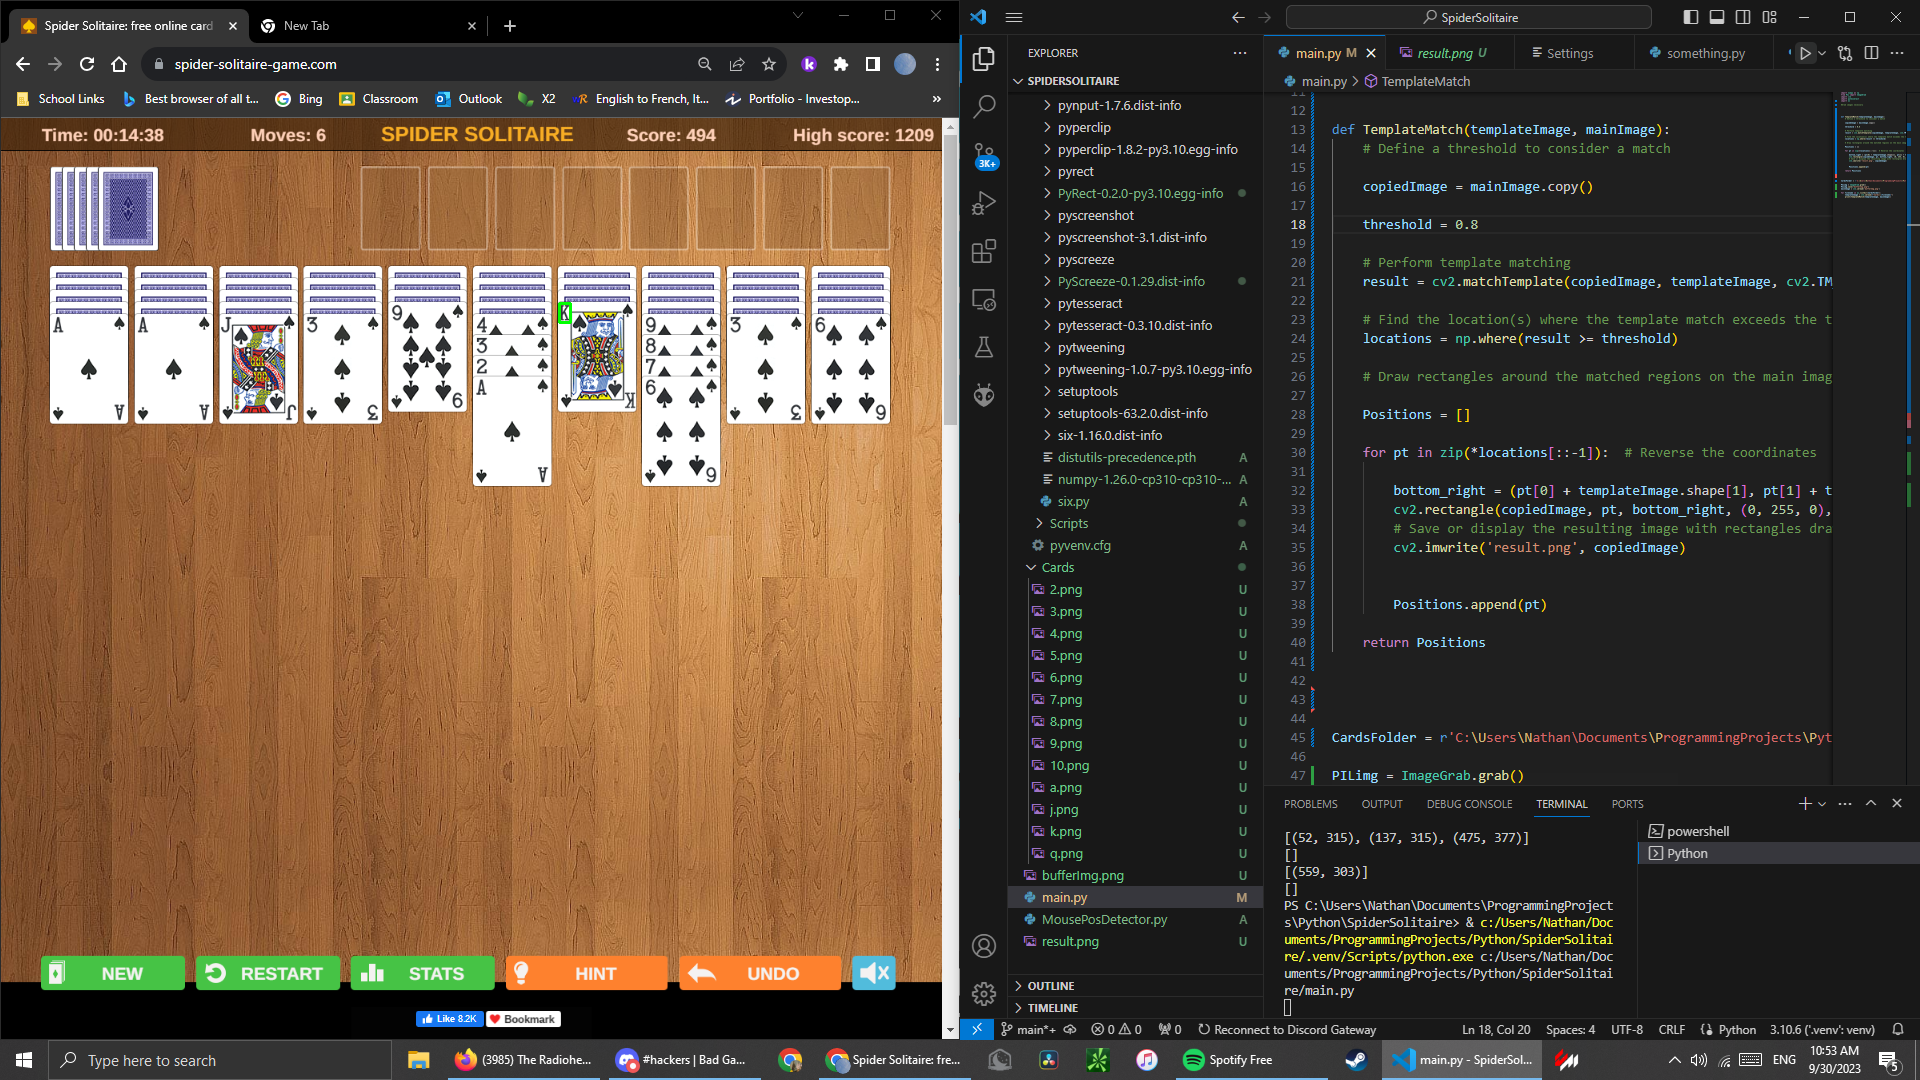
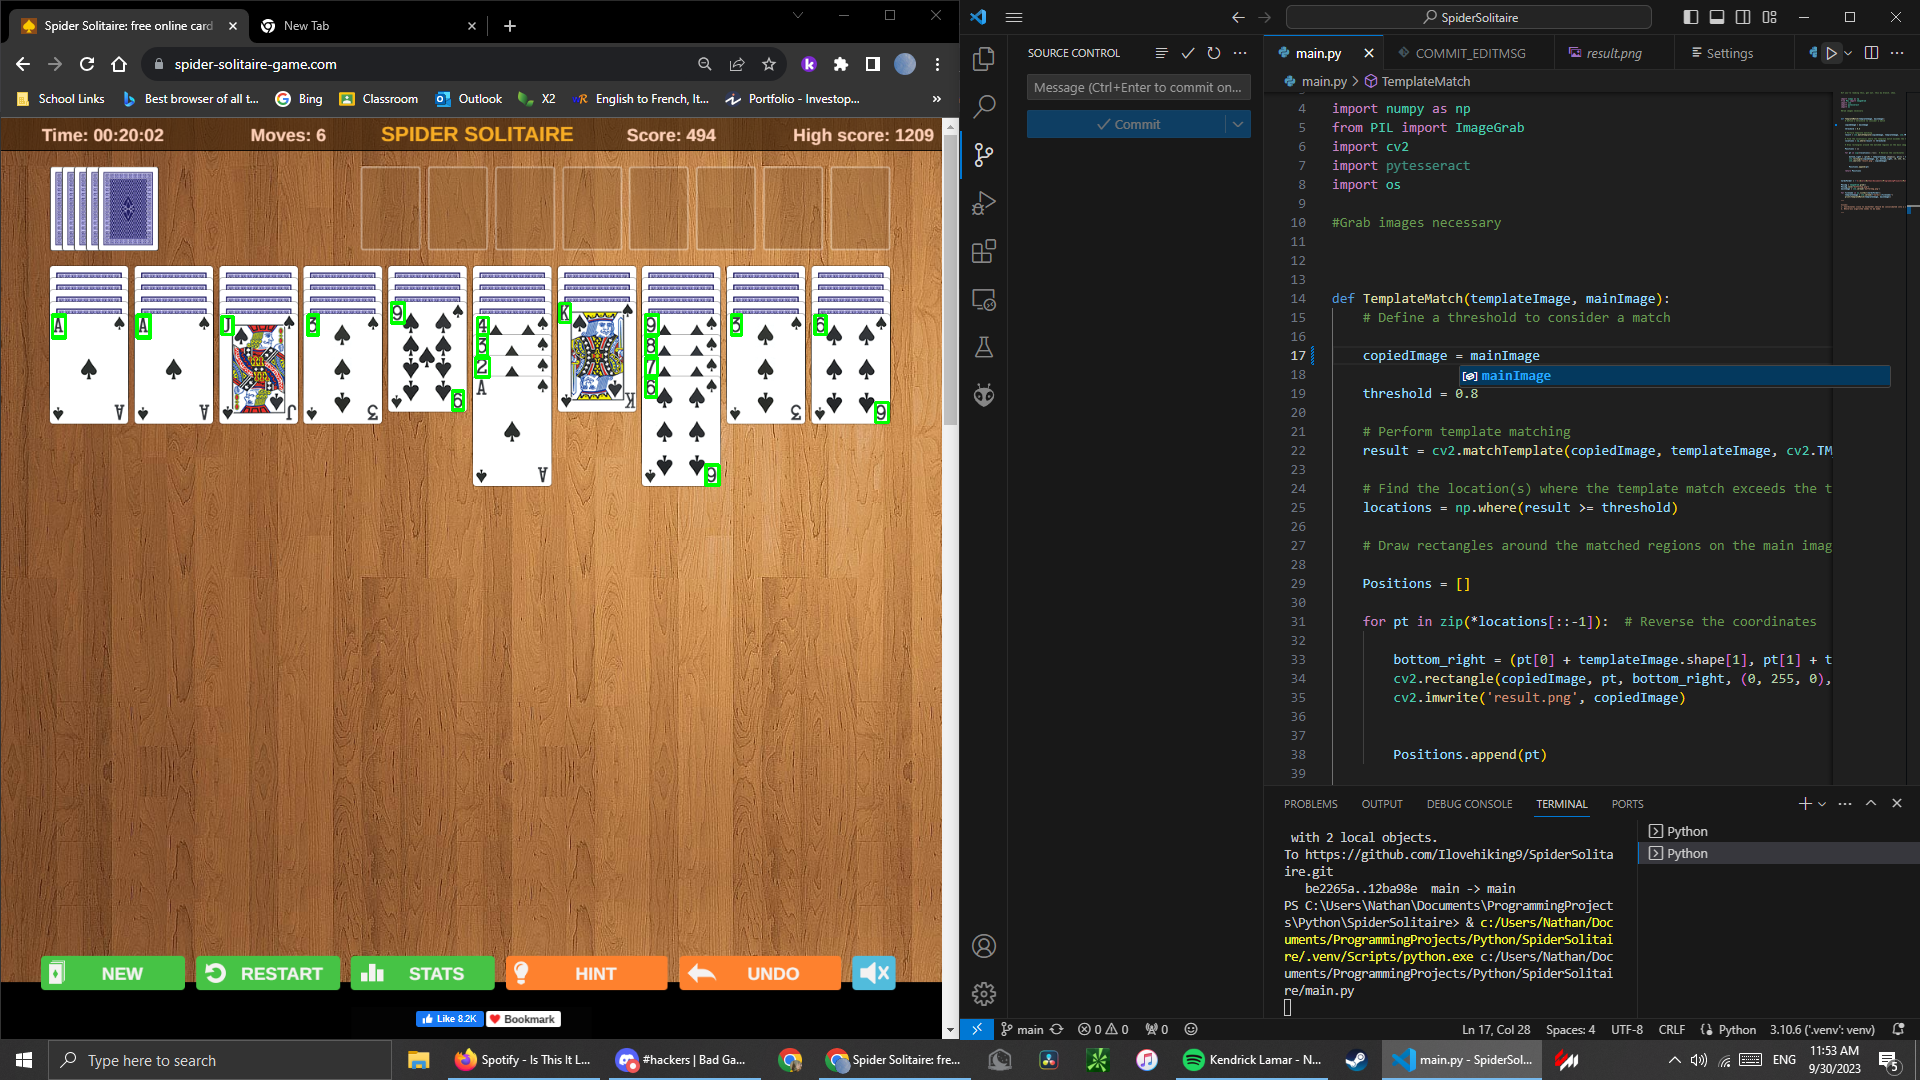
More issues, also cooler screenshot

diff --git a/main.py b/main.py
@@ -57,5 +57,5 @@ for filename in os.listdir(CardsFolder):
 Issues:
 1. Coordinates close to eachother should be consolidated into a single aggregate coordinate.
 2. Whole-ass algorithm needs to be made.
-
+3. Upside down 6's and 9's (nice.) need to be filtered.
 """
